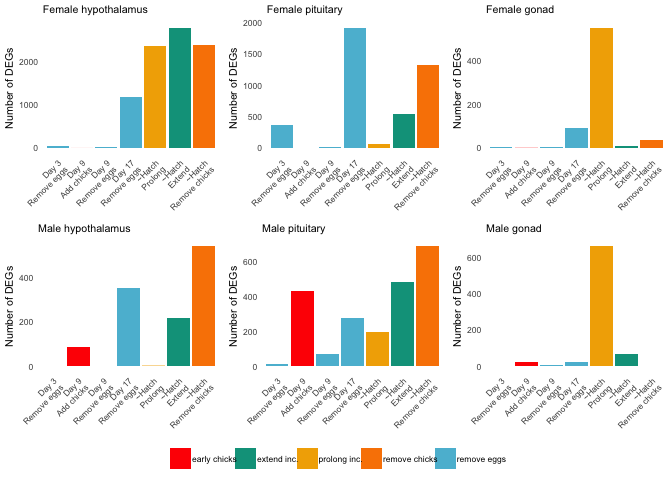
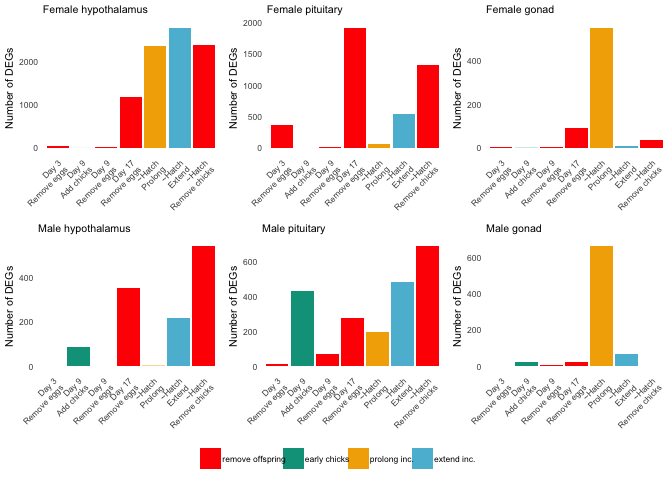
now with two parts manipulation

diff --git a/analysis/04_DESeq2_sexes.md b/analysis/04_DESeq2_sexes.md
@@ -2708,6 +2708,52 @@ Plot only a subset of DEGs that relate to hypotheses
 
 ![](../figures/sexes/manipVchar-2.png)
 
+    g <- plotremoval(DEGs.female_hypothalamus, "Female hypothalamus", "bottom")
+    h <- plotremoval(DEGs.female_pituitary, "Female pituitary", "none")
+    i <- plotremoval(DEGs.female_gonad, "Female gonad",  "none")
+    j <- plotremoval(DEGs.male_hypothalamus, "Male hypothalamus", "none")
+    k <- plotremoval(DEGs.male_pituitary, "Male pituitary", "none")
+    l <- plotremoval(DEGs.male_gondad, "Male gonad", "none")
+
+    legend <- get_legend(g)
+
+    mybarplots <- plot_grid(g + theme(legend.position = "none"), h , i , j ,k , l, nrow = 2) 
+
+    mybarplots2 <- plot_grid(mybarplots, legend, ncol = 1, rel_heights = c(1,0.1))
+    mybarplots2
+
+![](../figures/sexes/offspringremoval-1.png)
+
+    pdf("../figures/sexes/offspringremoval-1.pdf", width = 10, height = 6)
+    plot(mybarplots2)
+    dev.off()
+
+    ## quartz_off_screen 
+    ##                 2
+
+    g <- plotprolongdelay(DEGs.female_hypothalamus, "Female hypothalamus", "bottom")
+    h <- plotprolongdelay(DEGs.female_pituitary, "Female pituitary", "none")
+    i <- plotprolongdelay(DEGs.female_gonad, "Female gonad",  "none")
+    j <- plotprolongdelay(DEGs.male_hypothalamus, "Male hypothalamus", "none")
+    k <- plotprolongdelay(DEGs.male_pituitary, "Male pituitary", "none")
+    l <- plotprolongdelay(DEGs.male_gondad, "Male gonad", "none")
+
+    legend <- get_legend(g)
+
+    mybarplots <- plot_grid(g + theme(legend.position = "none"), h , i , j ,k , l, nrow = 2) 
+
+    mybarplots2 <- plot_grid(mybarplots, legend, ncol = 1, rel_heights = c(1,0.1))
+    mybarplots2
+
+![](../figures/sexes/prolongextend-1.png)
+
+    pdf("../figures/sexes/prolongextend-1.pdf", width = 10, height = 6)
+    plot(mybarplots2)
+    dev.off()
+
+    ## quartz_off_screen 
+    ##                 2
+
 Calculate and plot principal components
 ---------------------------------------
 
